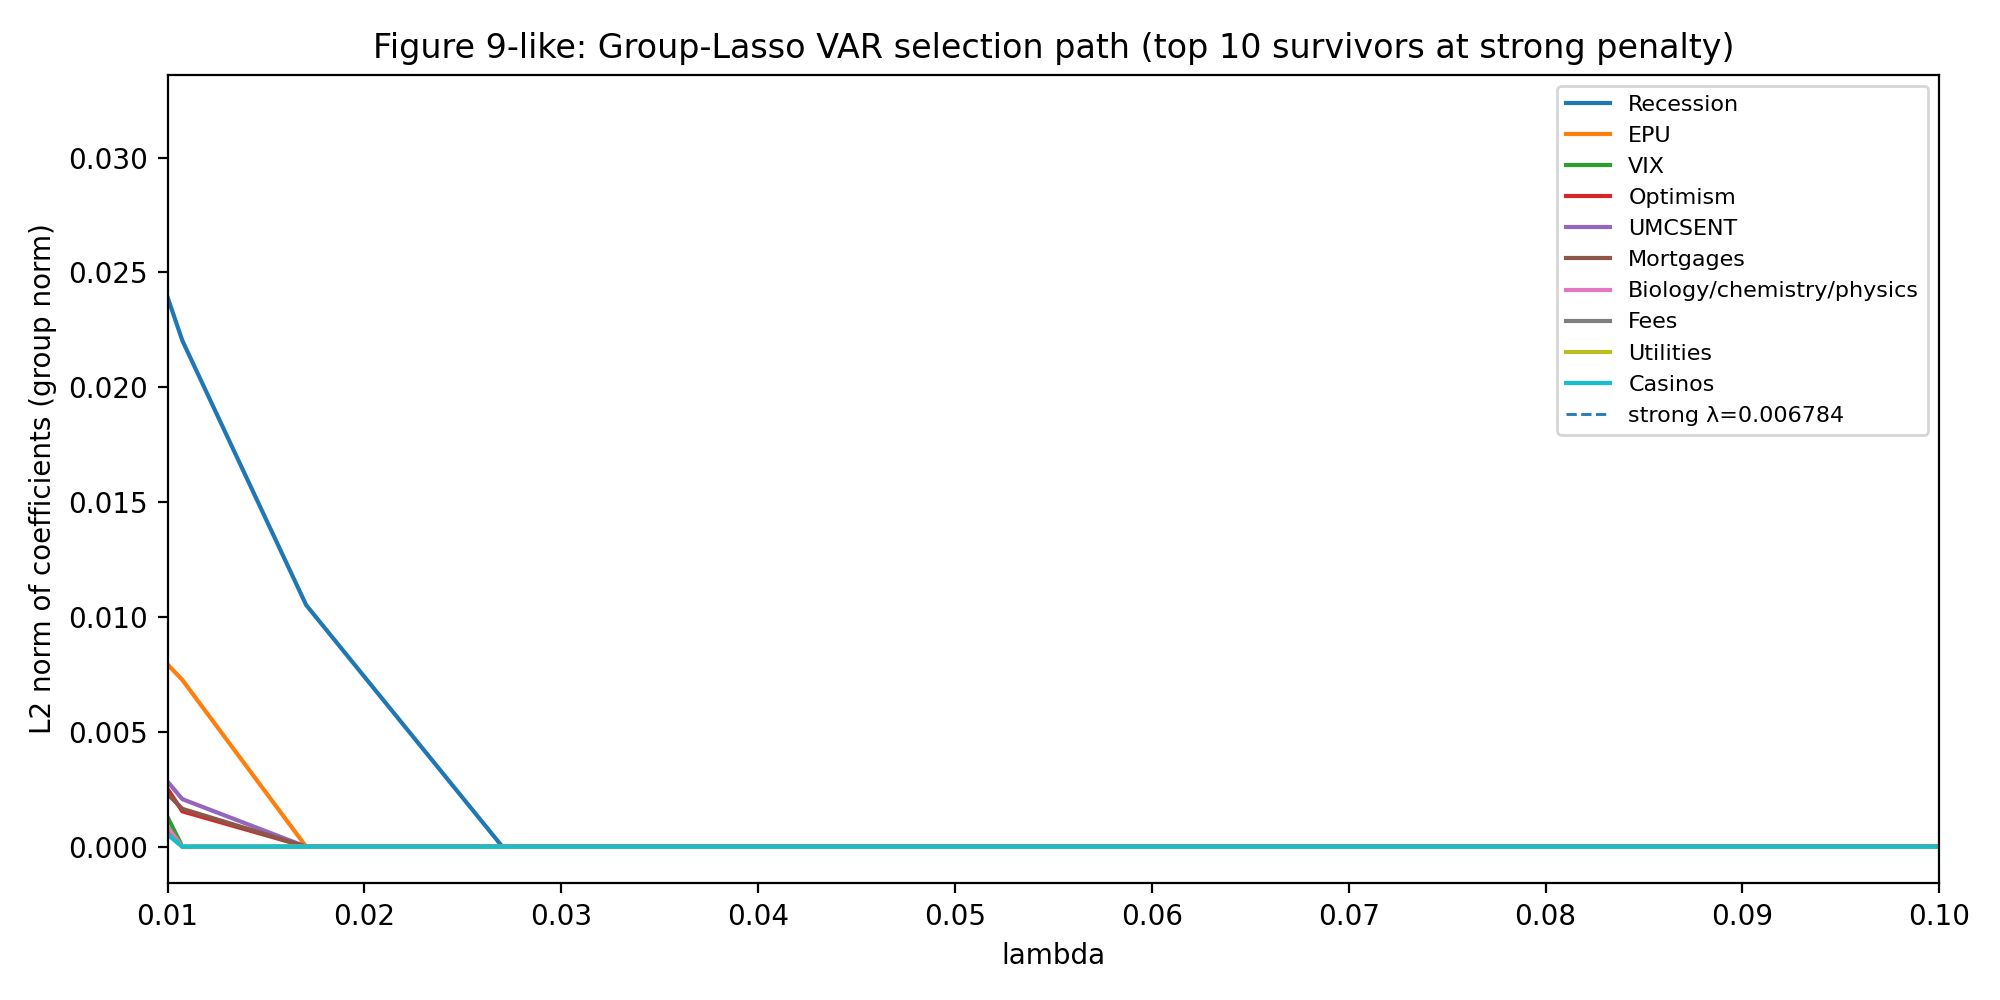
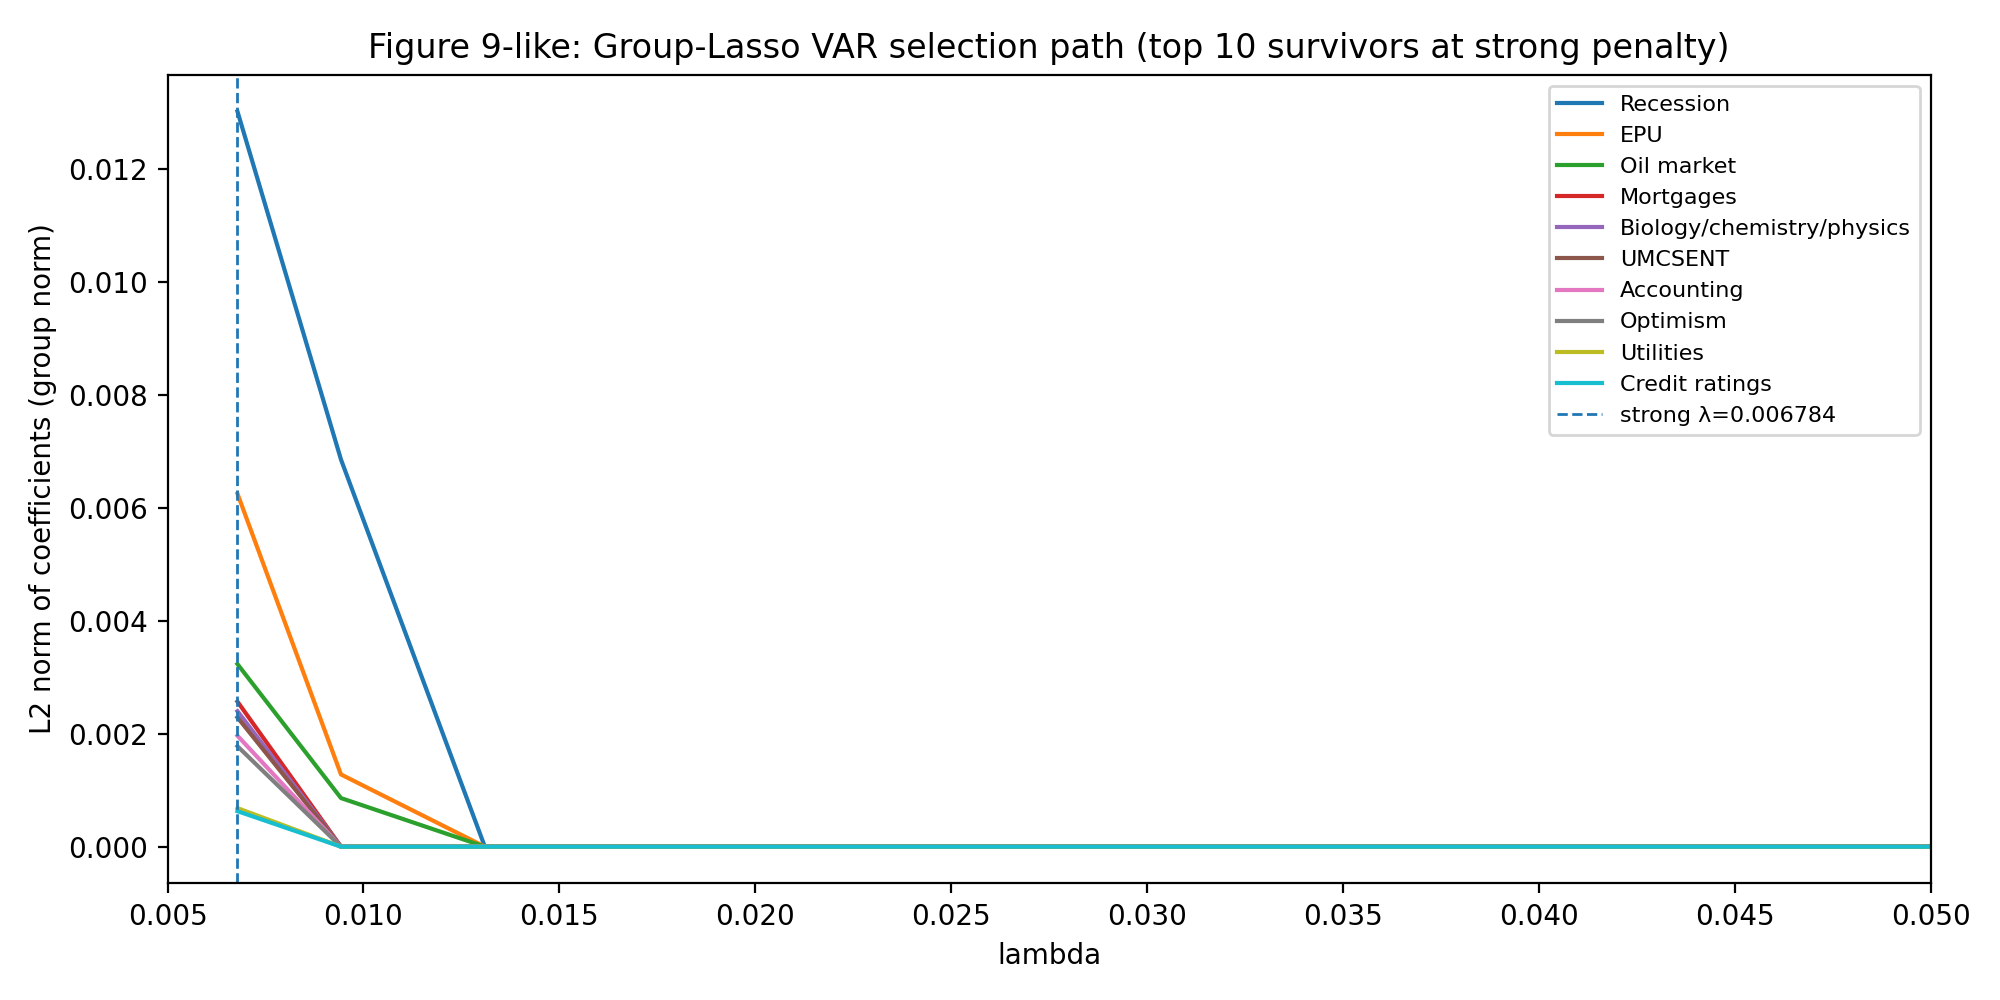
improved convergence

diff --git a/main_section_5.py b/main_section_5.py
@@ -77,13 +77,13 @@ FAST_MODE = True
 if FAST_MODE:
     LAM_GRID     = np.logspace(np.log10(1e-3), np.log10(2e-1), 25) #np.logspace(-3, -0.3, 20)   
     CV_SPLITS    = 3
-    N_ITER_PATH  = 800   #N_ITER_PATH = 2500  ou 1200                
+    N_ITER_PATH  = 1200   #N_ITER_PATH = 2500  ou 800                
     N_ITER_CV    = 800                      
-    TOL_PATH     = 1e-3  #TOL_PATH    = 1e-4                   
+    TOL_PATH     = 1e-4  #TOL_PATH    = 1e-3                   
     TOL_CV       = 1e-3
     LAM_GRID_RAW = None  # on la construira via lambda_max, donc ignore LAM_GRID initial
     EPS          = 1e-8
-    LAM_POINTS   = 16        # 20-25 is enough for Figure 9-like
+    LAM_POINTS   = 22        # 20-25 is enough for Figure 9-like
     LAM_RATIO    = 1e-3
 
 else:
@@ -1207,7 +1207,7 @@ for lam_raw in LAM_GRID_RAW:
         tol=TOL_PATH,
         supress_warning=True,
         fit_intercept=False,
-        scale_reg="group_size",
+        scale_reg="none",
         warm_start=True,   # enlève si ta version plante ici
     )
     gl.fit(Xmat, Ymat)
@@ -1253,9 +1253,9 @@ plt.figure(figsize=(10, 5))
 for v in top10:
     plt.plot(norms_df.index.values, norms_df[v].values, label=v)
 
-plt.xlim(1e-2, 1e-1)
-xticks = np.linspace(1e-2, 1e-1, 10)   # 0.01 -> 0.10
-plt.xticks(xticks, [f"{x:.2f}" for x in xticks])
+plt.xlim(5*1e-3, 5*1e-2)
+xticks = np.linspace(5*1e-3, 5*1e-2, 10)   # 0.01 -> 0.10
+plt.xticks(xticks, [f"{x:.3f}" for x in xticks])
 plt.axvline(lam_strong, linestyle="--", linewidth=1, label=f"strong λ={lam_strong:.4g}")
 plt.xlabel("lambda")
 plt.ylabel("L2 norm of coefficients (group norm)")
